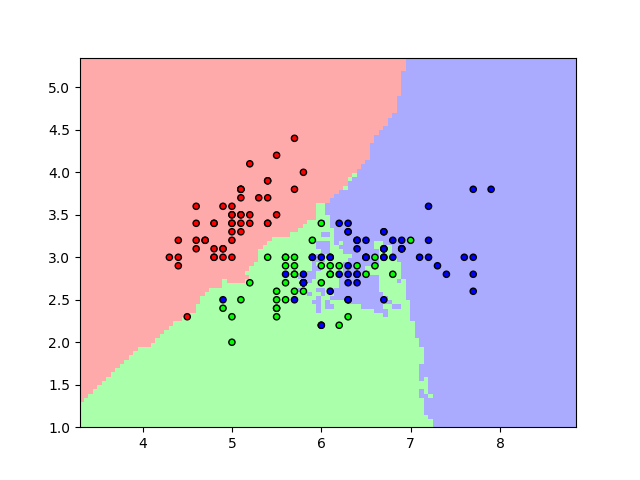
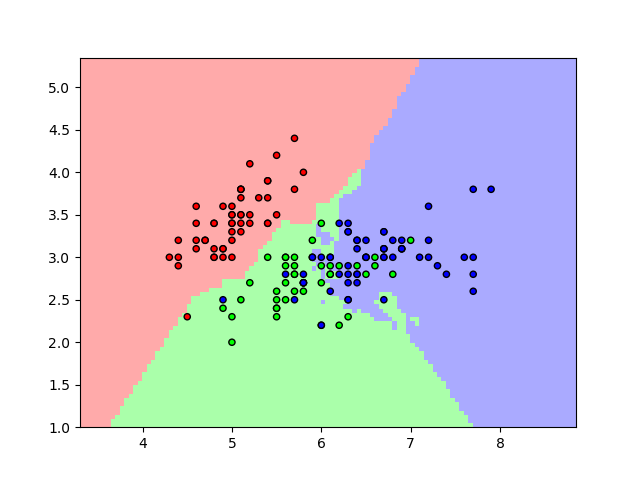
.

diff --git a/alphalearn/supervised/random_forest.py b/alphalearn/supervised/random_forest.py
@@ -1,0 +1,74 @@
+import numpy as np
+
+from alphalearn.api import ClassificationTree
+from alphalearn.utils.api import random_subsets
+
+
+class RandomForestClassifier():
+    """RandomForestClassifier
+
+    A random forest classifier.
+
+    Parameters:
+    -----------
+    n_estimators : integer
+        The number of trees in the forest.
+    max_features : int
+        The number of features to consider when looking for the best split:
+    min_samples_split : int
+        The minimum number of samples required to split an internal node:
+    min_impurity_split : float
+        Threshold for early stopping in tree growth.
+    max_depth : integer
+        The maximum depth of the tree.
+    """
+
+    def __init__(self, n_estimators=10, max_features=2,
+                 min_samples_split=2, min_impurity_split=1e-7, max_depth=2):
+        self.n_estimators = n_estimators
+        self.max_features = max_features
+        self.min_samples_split = min_samples_split
+        self.min_impurity_split = min_impurity_split
+        self.max_depth = max_depth
+        self.trees = []
+        for _ in range(self.n_estimators):
+            self.trees.append(ClassificationTree(min_samples_split=self.min_samples_split,
+                                                 min_impurity_split=min_impurity_split,
+                                                 max_depth=self.max_depth
+                                                 ))
+
+    def fit(self, X, y):
+        n_features = np.shape(X)[1]
+        if not self.max_features:
+            self.max_features = int(np.sqrt(n_features))
+        """Step 1
+        create a bootstrapped dataset
+        """
+        subsets = random_subsets(X, y, self.n_estimators)
+
+        for i in range(self.n_estimators):
+            X_subset, y_subset = subsets[i]
+
+            """Step 2
+            only use a random subset of variables(or columns) at each step"""
+            idx = np.random.choice(
+                range(n_features), size=self.max_features, replace=True)
+            self.trees[i].feature_indices = idx
+            X_subset = X_subset[:, idx]
+            self.trees[i].fit(X_subset, y_subset)
+
+    def predict(self, X):
+        """Predict
+        The predicted class of an input sample is a vote by the trees in the forest.
+        """
+        y_pred_all = np.empty((X.shape[0], len(self.trees)))
+        for i, tree in enumerate(self.trees):
+            idx = tree.feature_indices
+            prediction = tree.predict(X[:, idx])
+            y_pred_all[:, i] = prediction
+
+        y_pred = []
+        for sample_predictions in y_pred_all:
+            y_pred.append(np.bincount(
+                sample_predictions.astype('int')).argmax())
+        return y_pred

diff --git a/examples/example_KNeighborsClassifier.py b/examples/example_KNeighborsClassifier.py
@@ -3,9 +3,9 @@ import numpy as np
 from matplotlib.colors import ListedColormap
 from sklearn.model_selection import train_test_split
 
-from zero.api import KNeighborsClassifier
-from zero.datasets.api import load_iris
-from zero.utils.api import calculate_accuracy_score, normalize
+from alphalearn.api import KNeighborsClassifier
+from alphalearn.datasets.api import load_iris
+from alphalearn.utils.api import calculate_accuracy_score, normalize
 
 
 def main():
@@ -21,10 +21,8 @@ def main():
     y_pred = model.predict(X_test)
     accuracy = calculate_accuracy_score(y_test, y_pred)
     print("Accuracy Score: {:.2%}".format(accuracy))
-    """
-    h = .05  # step size in the mesh
 
-    # Create color maps
+    h = .05  # step size in the mesh
     cmap_light = ListedColormap(['#FFAAAA', '#AAFFAA', '#AAAAFF'])
     cmap_bold = ListedColormap(['#FF0000', '#00FF00', '#0000FF'])
 
@@ -33,7 +31,7 @@ def main():
     xx, yy = np.meshgrid(np.arange(x_min, x_max, h),
                          np.arange(y_min, y_max, h))
 
-    Z = model.predict(np.c_[xx.ravel(), yy.ravel()], X, y)
+    Z = model.predict(np.c_[xx.ravel(), yy.ravel()])
     Z = Z.reshape(xx.shape)
     plt.pcolormesh(xx, yy, Z, cmap=cmap_light)
 
@@ -42,7 +40,6 @@ def main():
     plt.xlim(xx.min(), xx.max())
     plt.ylim(yy.min(), yy.max())
     plt.savefig('./examples/example_KNeighborsClassifier.png')
-    """
 
 
 if __name__ == "__main__":

diff --git a/alphalearn/supervised/xgboost.py b/alphalearn/supervised/xgboost.py
@@ -1,23 +1,23 @@
 import numpy as np
 
-from zero.api import XGBoostRegressionTree
-from zero.utils.api import to_categorical, logistic_loss
+from alphalearn.api import XGBoostRegressionTree
+from alphalearn.utils.api import to_categorical, logistic_loss
 
 
 class XGBoost():
     """XGBoost"""
-    def __init__(self, max_iter=200, learning_rate=0.001, min_samples_split=2,
+
+    def __init__(self, n_estimators=100, learning_rate=0.1, min_samples_split=2,
                  min_impurity_split=1e-7, max_depth=2):
-        self.max_iter = max_iter
+        self.n_estimators = n_estimators
         self.learning_rate = learning_rate
         self.min_samples_split = min_samples_split
         self.min_impurity_split = min_impurity_split
         self.max_depth = max_depth
-
         self.loss = logistic_loss()
 
         self.trees = []
-        for _ in range(self.max_iter):
+        for _ in range(self.n_estimators):
             tree = XGBoostRegressionTree(
                 min_samples_split=self.min_samples_split,
                 min_impurity_split=self.min_impurity_split,
@@ -30,7 +30,7 @@ class XGBoost():
         y = to_categorical(y)
 
         y_pred = np.zeros(np.shape(y))
-        for i in range(self.max_iter):
+        for i in range(self.n_estimators):
             tree = self.trees[i]
             y_y_pred = np.concatenate((y, y_pred), axis=1)
             tree.fit(X, y_y_pred)

diff --git a/examples/example_RandomForestClassifier.py b/examples/example_RandomForestClassifier.py
@@ -1,8 +1,7 @@
-import matplotlib.pyplot as plt
 import numpy as np
 from sklearn.model_selection import train_test_split
 
-from alphalearn.api import GradientBoostingClassifier
+from alphalearn.api import RandomForestClassifier
 from alphalearn.datasets.api import load_iris
 from alphalearn.utils.api import calculate_accuracy_score
 
@@ -14,9 +13,9 @@ def main():
 
     X_train, X_test, y_train, y_test = train_test_split(X, y, test_size=0.4)
 
-    clf = GradientBoostingClassifier(n_estimators=200, learning_rate=.5)
-    clf.fit(X_train, y_train)
-    y_pred = clf.predict(X_test)
+    model = RandomForestClassifier(n_estimators=200, max_depth=10)
+    model.fit(X_train, y_train)
+    y_pred = model.predict(X_test)
 
     accuracy = calculate_accuracy_score(y_test, y_pred)
     print("Accuracy Score: {:.2%}".format(accuracy))

diff --git a/alphalearn/supervised/regression.py b/alphalearn/supervised/regression.py
@@ -3,12 +3,12 @@ import math
 import numpy as np
 import pandas as pd
 
-from zero.utils.api import (PolynomialFeatures, l1_regularization,
-                            l2_regularization, normalize)
+from alphalearn.utils.api import (PolynomialFeatures, l1_regularization,
+                                  l2_regularization, normalize)
 
 
 class Regression(object):
-    """ Base Regression model
+    """Base Regression model
 
     Parameters:
     -----------
@@ -23,7 +23,7 @@ class Regression(object):
         self.learning_rate = learning_rate
 
     def _init_weights(self, n_features):
-        """ Draw samples from a uniform distribution.
+        """Draw samples from a uniform distribution.
         n_features : Output shape. 
         """
         limit = 1 / math.sqrt(n_features)

diff --git a/setup.py b/setup.py
@@ -22,7 +22,7 @@ setup(
     # There are some restrictions on what makes a valid project name
     # specification here:
     # https://packaging.python.org/specifications/core-metadata/#name
-    name='zero',  # Required
+    name='alphalearn',  # Required
 
     # Versions should comply with PEP 440:
     # https://www.python.org/dev/peps/pep-0440/
@@ -63,7 +63,7 @@ setup(
     #
     # This field corresponds to the "Home-Page" metadata field:
     # https://packaging.python.org/specifications/core-metadata/#home-page-optional
-    url='https://github.com/byzhi/zero',  # Optional
+    url='https://github.com/byzhi/alphalearn',  # Optional
 
     # This should be your name or the name of the organization which owns the
     # project.

diff --git a/examples/example_XGBoost.py b/examples/example_XGBoost.py
@@ -1,10 +1,9 @@
-import matplotlib.pyplot as plt
 import numpy as np
 from sklearn.model_selection import train_test_split
 
-from zero.api import XGBoost
-from zero.datasets.api import load_iris
-from zero.utils.api import calculate_accuracy_score
+from alphalearn.api import XGBoost
+from alphalearn.datasets.api import load_iris
+from alphalearn.utils.api import calculate_accuracy_score
 
 
 def main():
@@ -14,7 +13,7 @@ def main():
 
     X_train, X_test, y_train, y_test = train_test_split(X, y, test_size=0.4)
 
-    model = XGBoost()
+    model = XGBoost(n_estimators=300, learning_rate=0.001)
     model.fit(X_train, y_train)
     y_pred = model.predict(X_test)
 

diff --git a/alphalearn/utils/random.py b/alphalearn/utils/random.py
@@ -1,0 +1,23 @@
+import numpy as np
+
+
+def random_subsets(X, y, n_subsets, replacements=True):
+    """Return random subsets"""
+    n_samples = np.shape(X)[0]
+    X_y = np.concatenate((X, y.reshape((1, len(y))).T), axis=1)
+    np.random.shuffle(X_y)
+    subsets = []
+
+    subsample_size = int(n_samples // 2)
+    if replacements:
+        subsample_size = n_samples
+
+    for _ in range(n_subsets):
+        idx = np.random.choice(
+            range(n_samples),
+            size=np.shape(range(subsample_size)),
+            replace=replacements)
+        X = X_y[idx][:, :-1]
+        y = X_y[idx][:, -1]
+        subsets.append([X, y])
+    return subsets

diff --git a/alphalearn/api.py b/alphalearn/api.py
@@ -7,6 +7,7 @@ from .supervised.gradient_boosting import (GradientBoostingClassifier,
 from .supervised.k_nearest_neighbors import KNeighborsClassifier
 from .supervised.linear_discriminant_analysis import LinearDiscriminantAnalysis
 from .supervised.logistic_regression import LogisticRegression
+from .supervised.random_forest import RandomForestClassifier
 from .supervised.regression import (LassoRegression, LinearRegression,
                                     PolynomialRidgeRegression, RidgeRegression)
 from .supervised.support_vector_machine import svm

diff --git a/examples/example_RegressionTree.py b/examples/example_RegressionTree.py
@@ -2,9 +2,9 @@ import numpy as np
 import matplotlib.pyplot as plt
 from sklearn.model_selection import train_test_split
 
-from zero.api import RegressionTree
-from zero.utils.api import standardize, calculate_mean_squared_error
-from zero.datasets.api import load_temperature
+from alphalearn.api import RegressionTree
+from alphalearn.utils.api import standardize, calculate_mean_squared_error
+from alphalearn.datasets.api import load_temperature
 
 
 def main():

diff --git a/examples/example_PolynomialRidgeRegression.py b/examples/example_PolynomialRidgeRegression.py
@@ -2,9 +2,9 @@ import matplotlib.pyplot as plt
 import numpy as np
 from sklearn.model_selection import train_test_split
 
-from zero.api import PolynomialRidgeRegression
-from zero.datasets.api import load_temperature
-from zero.utils.api import calculate_mean_squared_error
+from alphalearn.api import PolynomialRidgeRegression
+from alphalearn.datasets.api import load_temperature
+from alphalearn.utils.api import calculate_mean_squared_error
 
 
 def main():

diff --git a/examples/example_ClassificationTree.py b/examples/example_ClassificationTree.py
@@ -2,9 +2,9 @@ import numpy as np
 import pandas as pd
 from sklearn.model_selection import train_test_split
 
-from zero.api import ClassificationTree
-from zero.datasets.api import load_banknote
-from zero.utils.api import calculate_accuracy_score
+from alphalearn.api import ClassificationTree
+from alphalearn.datasets.api import load_banknote
+from alphalearn.utils.api import calculate_accuracy_score
 
 
 def main():
